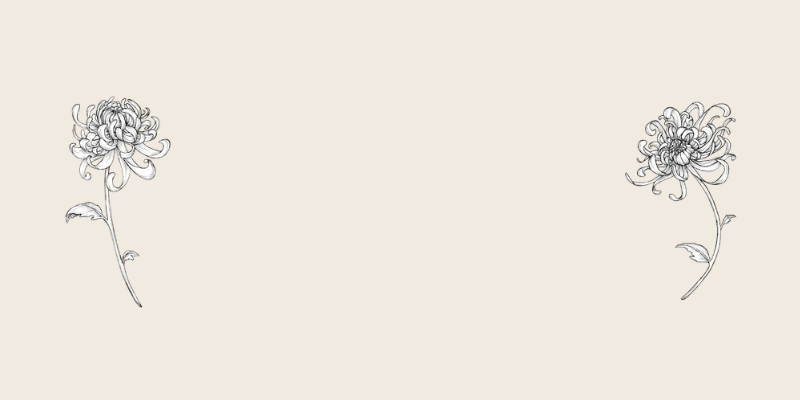
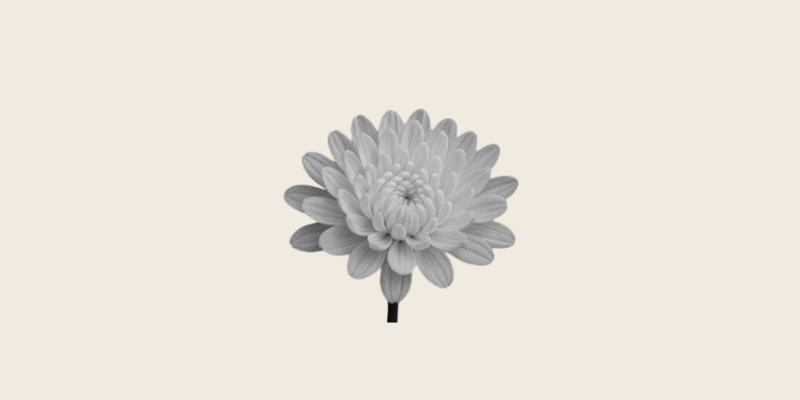
카드이미지 수정

diff --git a/eobom/frontend/src/vite-env.d.ts b/eobom/frontend/src/vite-env.d.ts
@@ -2,6 +2,11 @@
 
 interface ImportMetaEnv {
   readonly VITE_KAKAO_MAP_KEY: string;
+  // 카카오톡 공유 SDK용(07-03 §3.2). 앱이 하나라 지도 키와 같은 값이지만 용도가 달라
+  // 이름을 분리해 둔다 — 나중에 지도와 공유를 다른 앱으로 나눌 때 값만 바꾸면 된다.
+  readonly VITE_KAKAO_JS_KEY: string;
+  // 비워두면 config.ts가 `현재호스트:5000`으로 폴백한다(로컬 개발 기본값).
+  // 백엔드 배포 후 그 주소를 넣는다. ⚠ 임시 터널 주소를 넣지 말 것 — 재시작 시 죽는다.
   readonly VITE_BACKEND_URL?: string;
 }
 

diff --git a/docs/07_상중_행정_케어/07-03_모바일_부고장_카카오톡_전송_구현_기획서.md b/docs/07_상중_행정_케어/07-03_모바일_부고장_카카오톡_전송_구현_기획서.md
@@ -767,11 +767,37 @@ POST /api/obituaries
    > 조의금 계좌 없이 나갑니다. 스키마·백엔드·랜딩은 이미 구현돼 있고 **작성 폼 토글과 암호화
    > 연결만 남았습니다.**
 
-> **완료 판정** (전부 실기기):
-> 1. **버튼으로 공유한 카드**에 고인 성명·빈소가 뜨고, 눌렀을 때 `/o/:slug`가 열린다.
-> 2. 같은 개설로 **추모관이 함께 생성돼 있다.**
-> 3. ⚠ **공유창 친구 탭에서 대화방 없는 개인을 선택**해도 부고 카드가 도달한다(§2.4).
+> **완료 판정** — 🔵 **2026-08-20 실측으로 두 묶음으로 갈렸습니다.**
+>
+> **(가) 로컬에서 닫을 수 있는 것** — `https://localhost:5173` (등록 도메인)
+> 1. ✅ **버튼으로 공유한 카드**에 근조 이미지·고인 성명·빈소·발인이 뜬다.
+> 2. ✅ 같은 개설로 **추모관이 함께 생성돼 있다.**
+> 3. ✅ **공유창 친구 탭에서 대화방 없는 개인**을 선택해도 카드가 도달한다(§2.4).
 > 4. SDK 로드를 강제로 실패시켰을 때 **링크 복사로 폴백**된다(§7).
+> 5. 카드 반영 필드를 고친 뒤 재공유하면 제목이 **`[부고·변경]`** 이 된다(§5.4-2).
+>
+> **(나) 🔴 배포 후에만 가능한 것**
+> 6. **받은 사람이 카드를 눌러 랜딩이 열린다.**
+>
+> #### ⚠ 6번이 로컬에서 불가능한 이유 — 도메인이 둘로 갈리기 때문
+>
+> | | 카카오 공유 | 외부에서 열기 |
+> | :--- | :---: | :---: |
+> | `localhost:5173` · LAN IP | ⭕ 등록됨 | ❌ 외부 접근 불가 |
+> | 임시 터널(`trycloudflare.com` 등) | ❌ 미등록 도메인 | ⭕ 열림 |
+>
+> **둘을 동시에 만족하는 주소가 없습니다.** 카드를 만들려면 등록된 도메인이어야 하는데 그
+> 도메인은 외부에서 안 열리고, 외부에서 열리는 터널은 카카오가 거부합니다.
+>
+> 🔴 **임시 터널을 등록해 우회하지 마십시오** — `trycloudflare.com` 류의 임시 터널은
+> **재시작할 때마다 주소가 바뀌어** 카카오 등록도 `.env`도 조용히 죽습니다.
+> 2026-08-20에 실제로 그 상태였고, **계획에서 제외했습니다.**
+>
+> ✅ **배포하면 한 번에 풀립니다** — `eobom.vercel.app` 하나가 *등록된 도메인*이면서
+> *외부에서 열리는 주소*가 됩니다.
+>
+> ⚠ **배포 후 기존 부고장은 열리지 않습니다.** 로컬 DB에만 있는 레코드이므로,
+> 데이터를 옮기지 않는 한 **배포 뒤 새로 만들어 검증**해야 합니다.
 
 ### Phase 2 — 재전파해도 카드가 뜬다
 

diff --git a/docs/작업일지_및_기록/260820.md b/docs/작업일지_및_기록/260820.md
@@ -227,7 +227,29 @@
 - **루트 빈 `prisma/` 잔여물 제거**(파일 0건·git 추적 0건). 실제 스키마는
   `eobom/backend/prisma/`에만 있는데 루트에서 `prisma` 명령을 칠 소지가 있었다.
 
-### 13. [Claude:Opus] 문서 인덱스·기록 갱신
+### 13. [사용자] Phase 1 실기기 검증 + 임시 터널 계획에서 제외
+
+- ✅ **로컬(`localhost:5173`)에서 카톡 공유 정상 동작 확인** — 근조 이미지·고인 성명·빈소·발인이
+  담긴 카드가 폰 카톡에 도달. `VITE_KAKAO_JS_KEY` 추가(Phase 0 ⓑ 완료) 후 동작.
+- 🔴 **카드를 눌러도 랜딩이 안 열림** — 카드 링크가 `localhost:5173`이라 폰에서는 폰 자신을
+  가리킨다. 원인 규명 과정에서 `VITE_BACKEND_URL`이 **Cloudflare 임시 터널**을 가리키고 있던
+  것을 발견(08-19부터 가동 중).
+- ✅ **서버 쪽은 전부 정상이었음** — DB에 부고장 2건(`closedAt` 없음), API HTTP 200,
+  CORS `origin: true`, 프론트·백엔드 터널 모두 응답.
+- 🔵 **도메인이 둘로 갈리는 구조적 문제를 확인**:
+  - 등록 도메인(`localhost`·LAN IP) → 카카오 공유 ⭕ / 외부 접근 ❌
+  - 임시 터널 → 외부 접근 ⭕ / 카카오 미등록 도메인이라 공유 ❌
+  - **둘을 동시에 만족하는 주소가 없다.** 배포하면 `eobom.vercel.app` 하나로 합쳐진다.
+- ✅ **[사용자] 지시로 임시 터널을 계획에서 제외**:
+  - `eobom/frontend/.env`에서 `VITE_BACKEND_URL`(터널) 주석 처리, 미사용 죽은 변수
+    `VITE_FRONTEND_URL` 제거 → `config.ts` 폴백(`현재호스트:5000`)을 그대로 쓴다.
+  - `vite-env.d.ts`에 `VITE_KAKAO_JS_KEY` 선언 추가 + 터널 금지 주석.
+  - `systems.md` §2에 **임시 터널 금지** 명문화(재시작 시 주소가 바뀌어 카카오 등록·`.env`가
+    조용히 죽는다. `00-07`이 이미 *"개발 서버가 진짜 인터넷에 노출되는 위험"* 으로 지적한 건).
+  - `07-03` §9 Phase 1 완료 판정을 **(가) 로컬에서 닫는 5건 / (나) 배포 후 1건**으로 분리.
+    ⚠ **배포 후 기존 부고장은 안 열린다** — 로컬 DB에만 있는 레코드라 새로 만들어 검증할 것.
+
+### 14. [Claude:Opus] 문서 인덱스·기록 갱신
 
 - `docs/00_DOCS_INDEX.md` 07 섹션에 `07-03` 행 추가.
 - `walkthrough.md` (45) 항목 5개 필드 작성 (판정 대기).

diff --git a/.harness/systems.md b/.harness/systems.md
@@ -35,6 +35,11 @@
 - 활성화: 카카오 디벨로퍼 > 이어봄앱 > 제품설정 > 카카오맵 > ON (**공유는 별도 활성화·검수 없음**)
 - ⚠ **카드 이미지는 카카오 서버가 직접 가져간다** — `localhost`·사설IP(`192.168.x.x`) URL은 **불가**.
   `OBITUARY_CARD_IMAGE_URL`은 **고정 공개 URL**(Vercel)이어야 한다(`07-03` §3.3-3).
+- 🔴 **임시 터널(`trycloudflare.com` 등)은 쓰지 않는다 — 2026-08-20 계획에서 제외.**
+  재시작할 때마다 주소가 바뀌어 **카카오 도메인 등록도 `.env`도 조용히 죽는다.**
+  실제로 08-19~20 사이 `VITE_BACKEND_URL`이 터널을 가리키고 있었고, 프론트 `.env`에서 제거했다.
+  로컬은 `config.ts` 폴백(`현재호스트:5000`)을 쓰고, **외부 검증은 실배포로만** 한다.
+  (`00-07` §도 Cloudflare Tunnel을 *"개발 서버가 진짜 인터넷에 노출되는 위험"* 으로 이미 지적)
 - ⚠ 시/도단위 검색시 45건캡으로 일부지역 누락. 전수수집은 시/군/구 재검색 필요.
 - 🔴 08-19: 좀비 vite가 5174~5177 점유→dev서버 밀림→미등록포트라 SDK거부. `netstat`+`taskkill`로
   정리, 재발시 5173 비었는지 먼저 확인.
